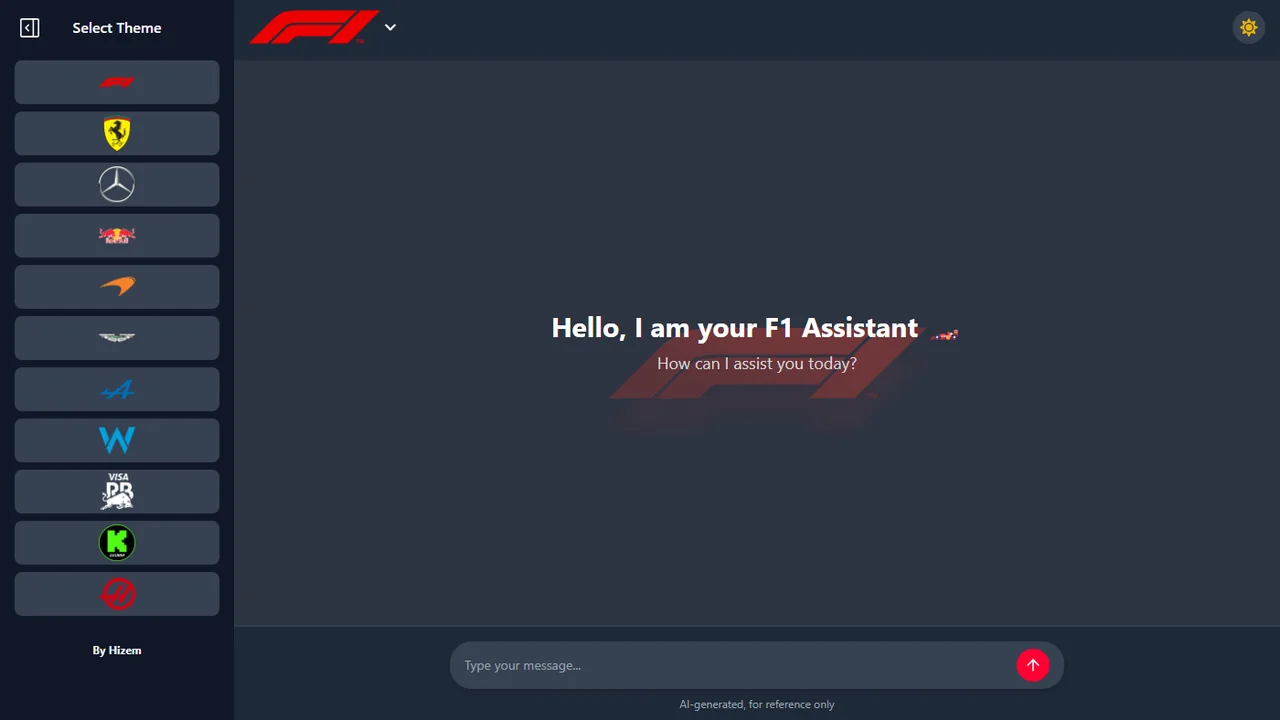
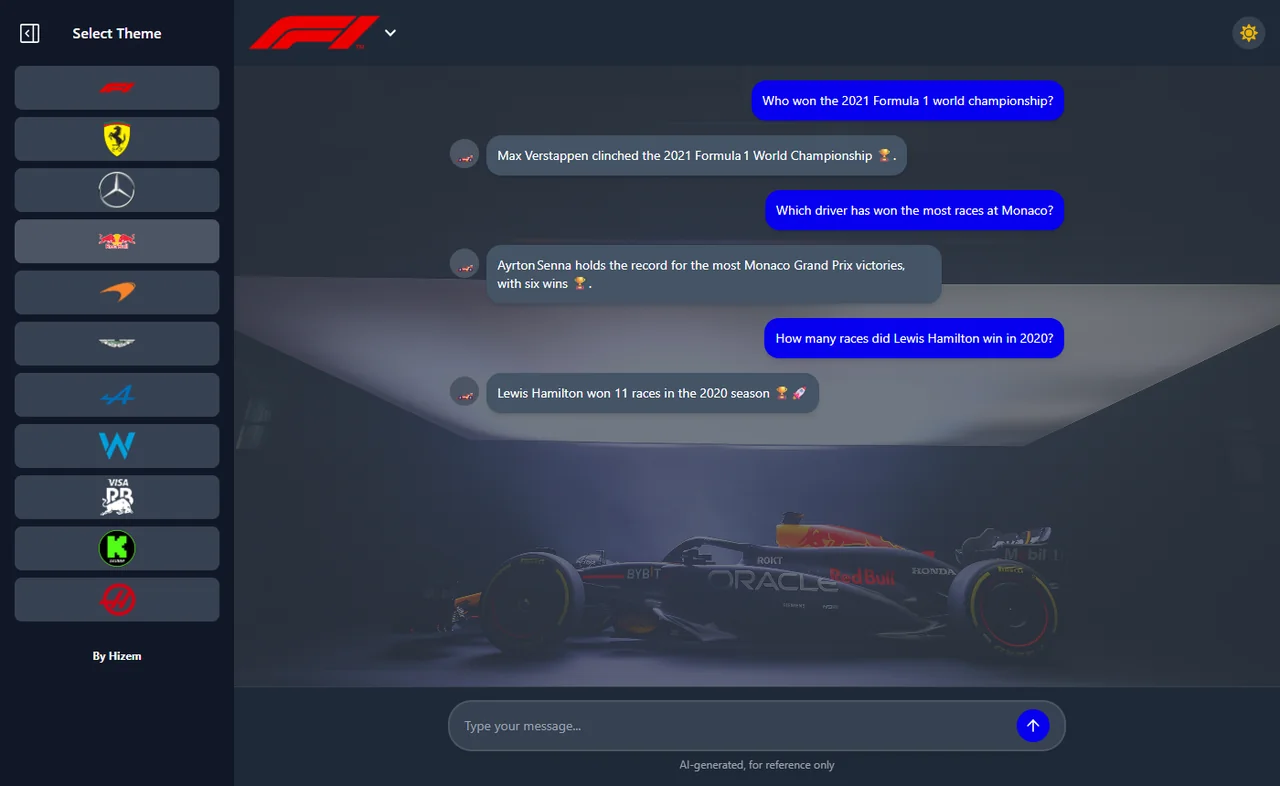
F1 Chatbot card: new screenshot with real answers, GPT-OSS instead of Llama

diff --git a/src/data/projects.js b/src/data/projects.js
@@ -60,11 +60,11 @@ export const featured = [
     description:
       'An LLM turns each question into SQL, the query runs read-only against a database of every season from 1950 to 2024, and the rows are turned back into a conversational answer. React chat UI on a FastAPI backend.',
     highlights: [
-      'Text-to-SQL with schema and few-shot prompting on Llama 3.1 (Groq)',
+      'Text-to-SQL with schema and few-shot prompting: a small model writes the SQL, a larger one the answer',
       'Safe execution: only SELECT statements run, on a database opened read-only',
       'React chat UI with 11 switchable team themes',
     ],
-    stack: ['React', 'FastAPI', 'SQLite', 'Groq API', 'Llama 3.1'],
+    stack: ['React', 'FastAPI', 'SQLite', 'Groq API', 'GPT-OSS'],
     links: [{ label: 'Repository', href: gh('f1-chatbot') }],
   },
   {
